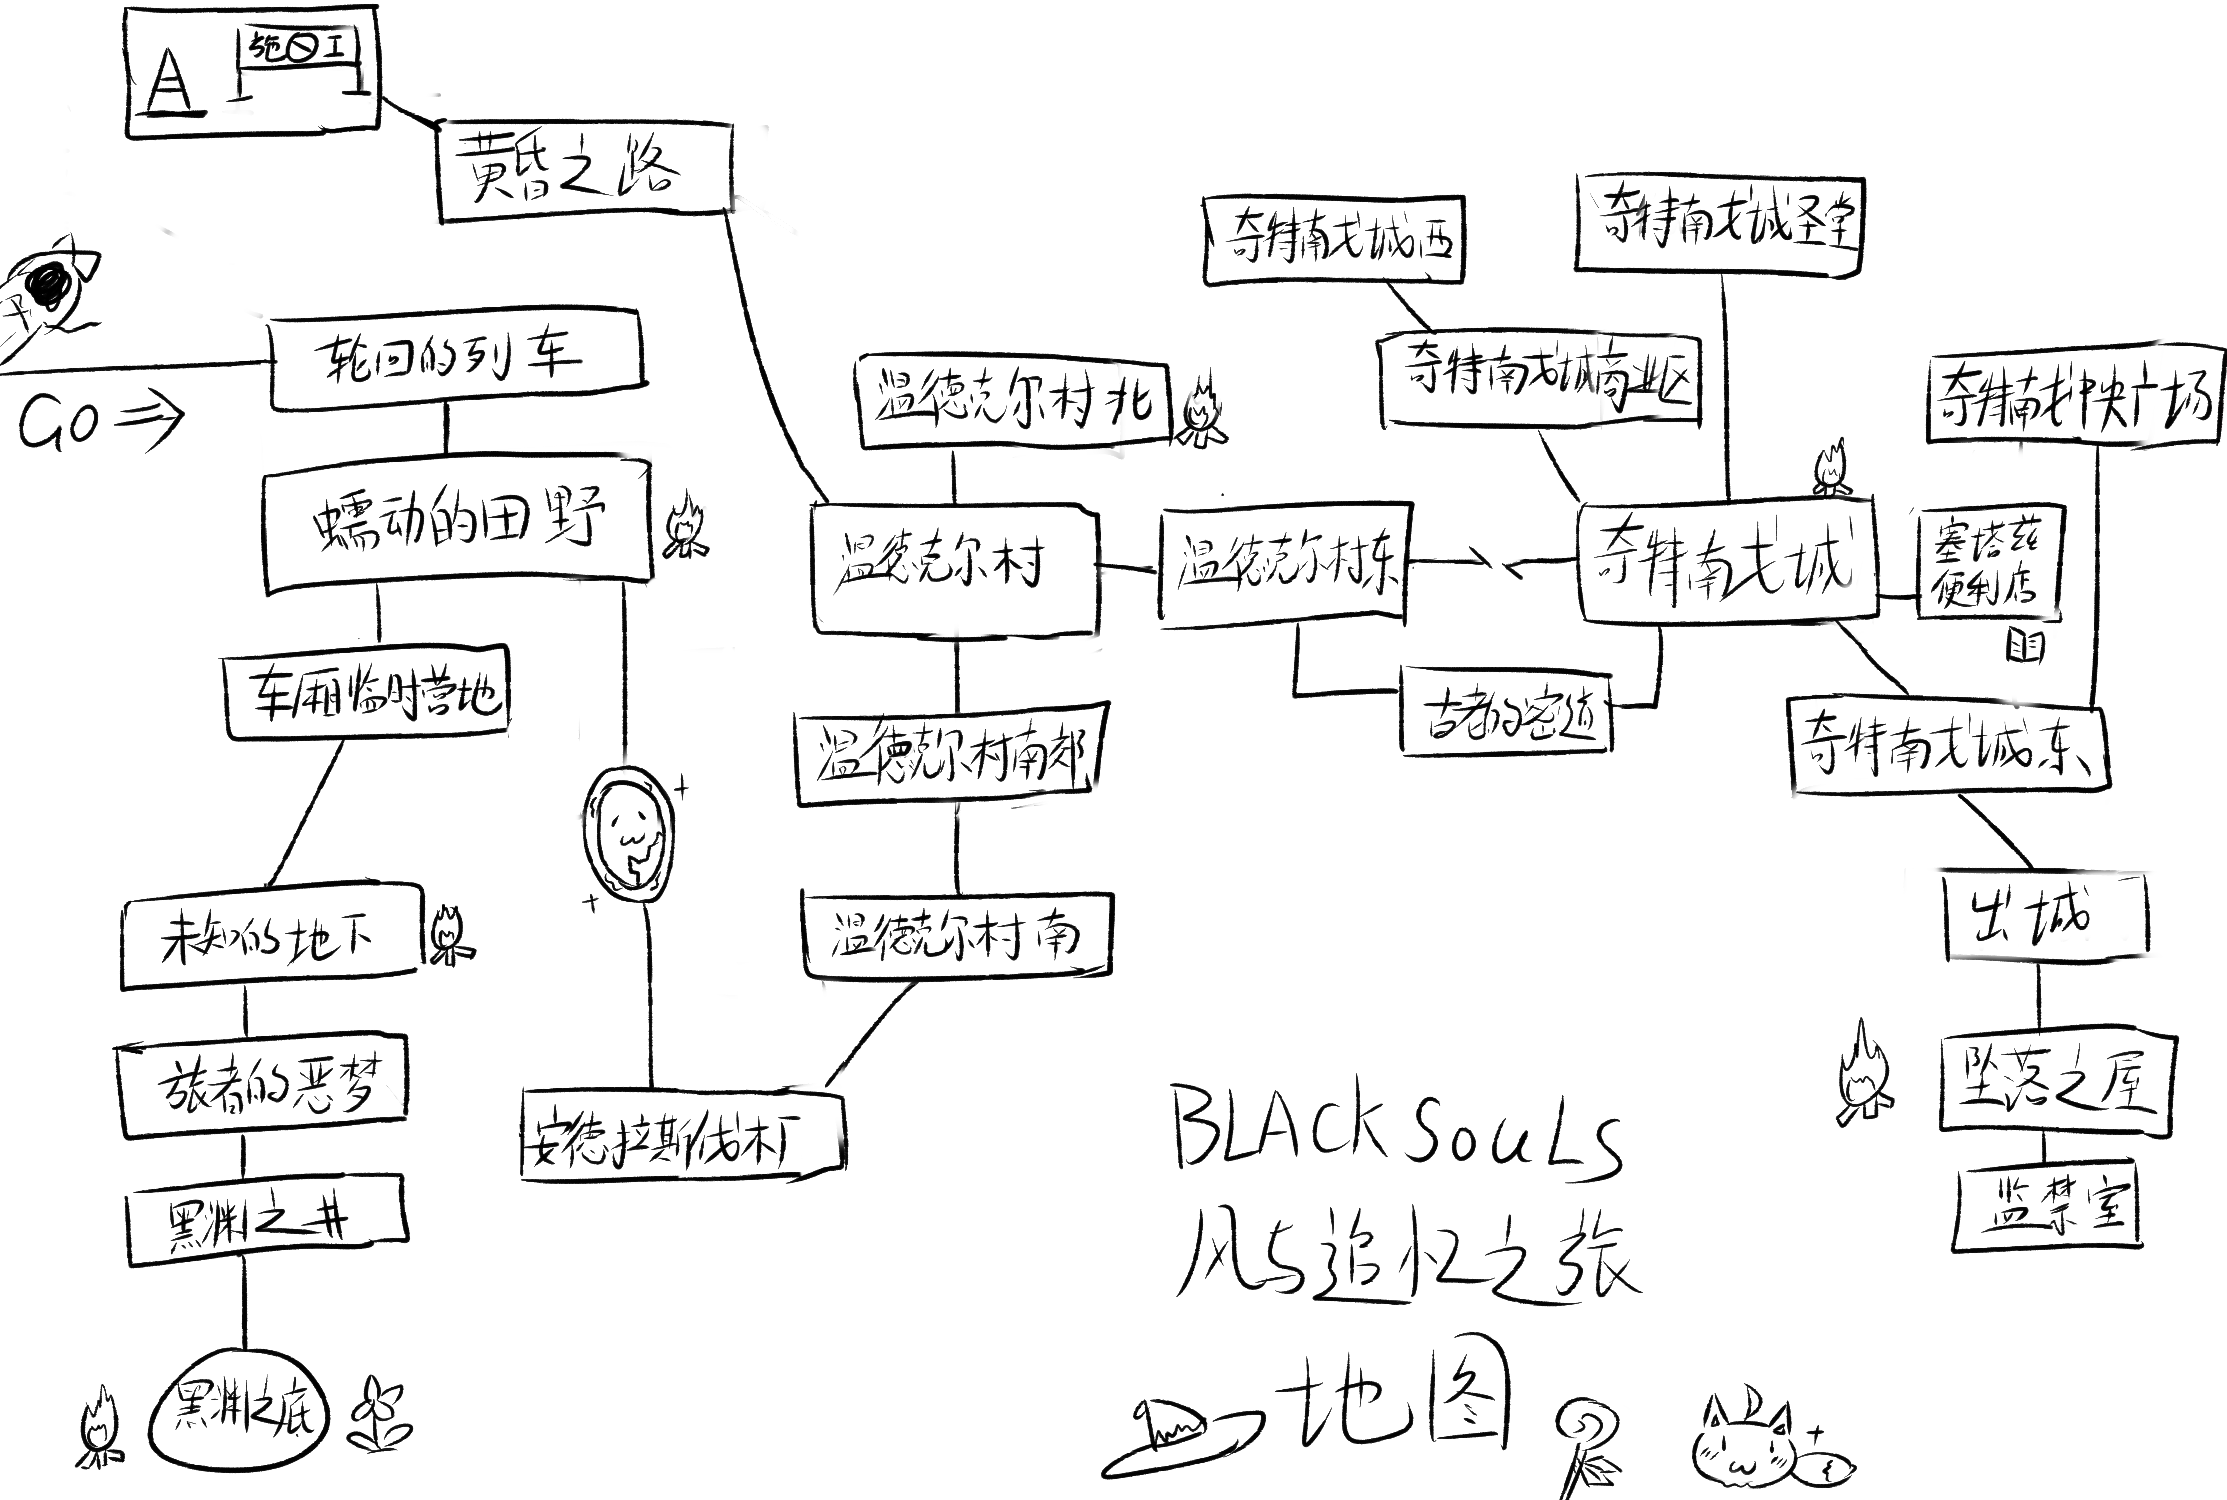
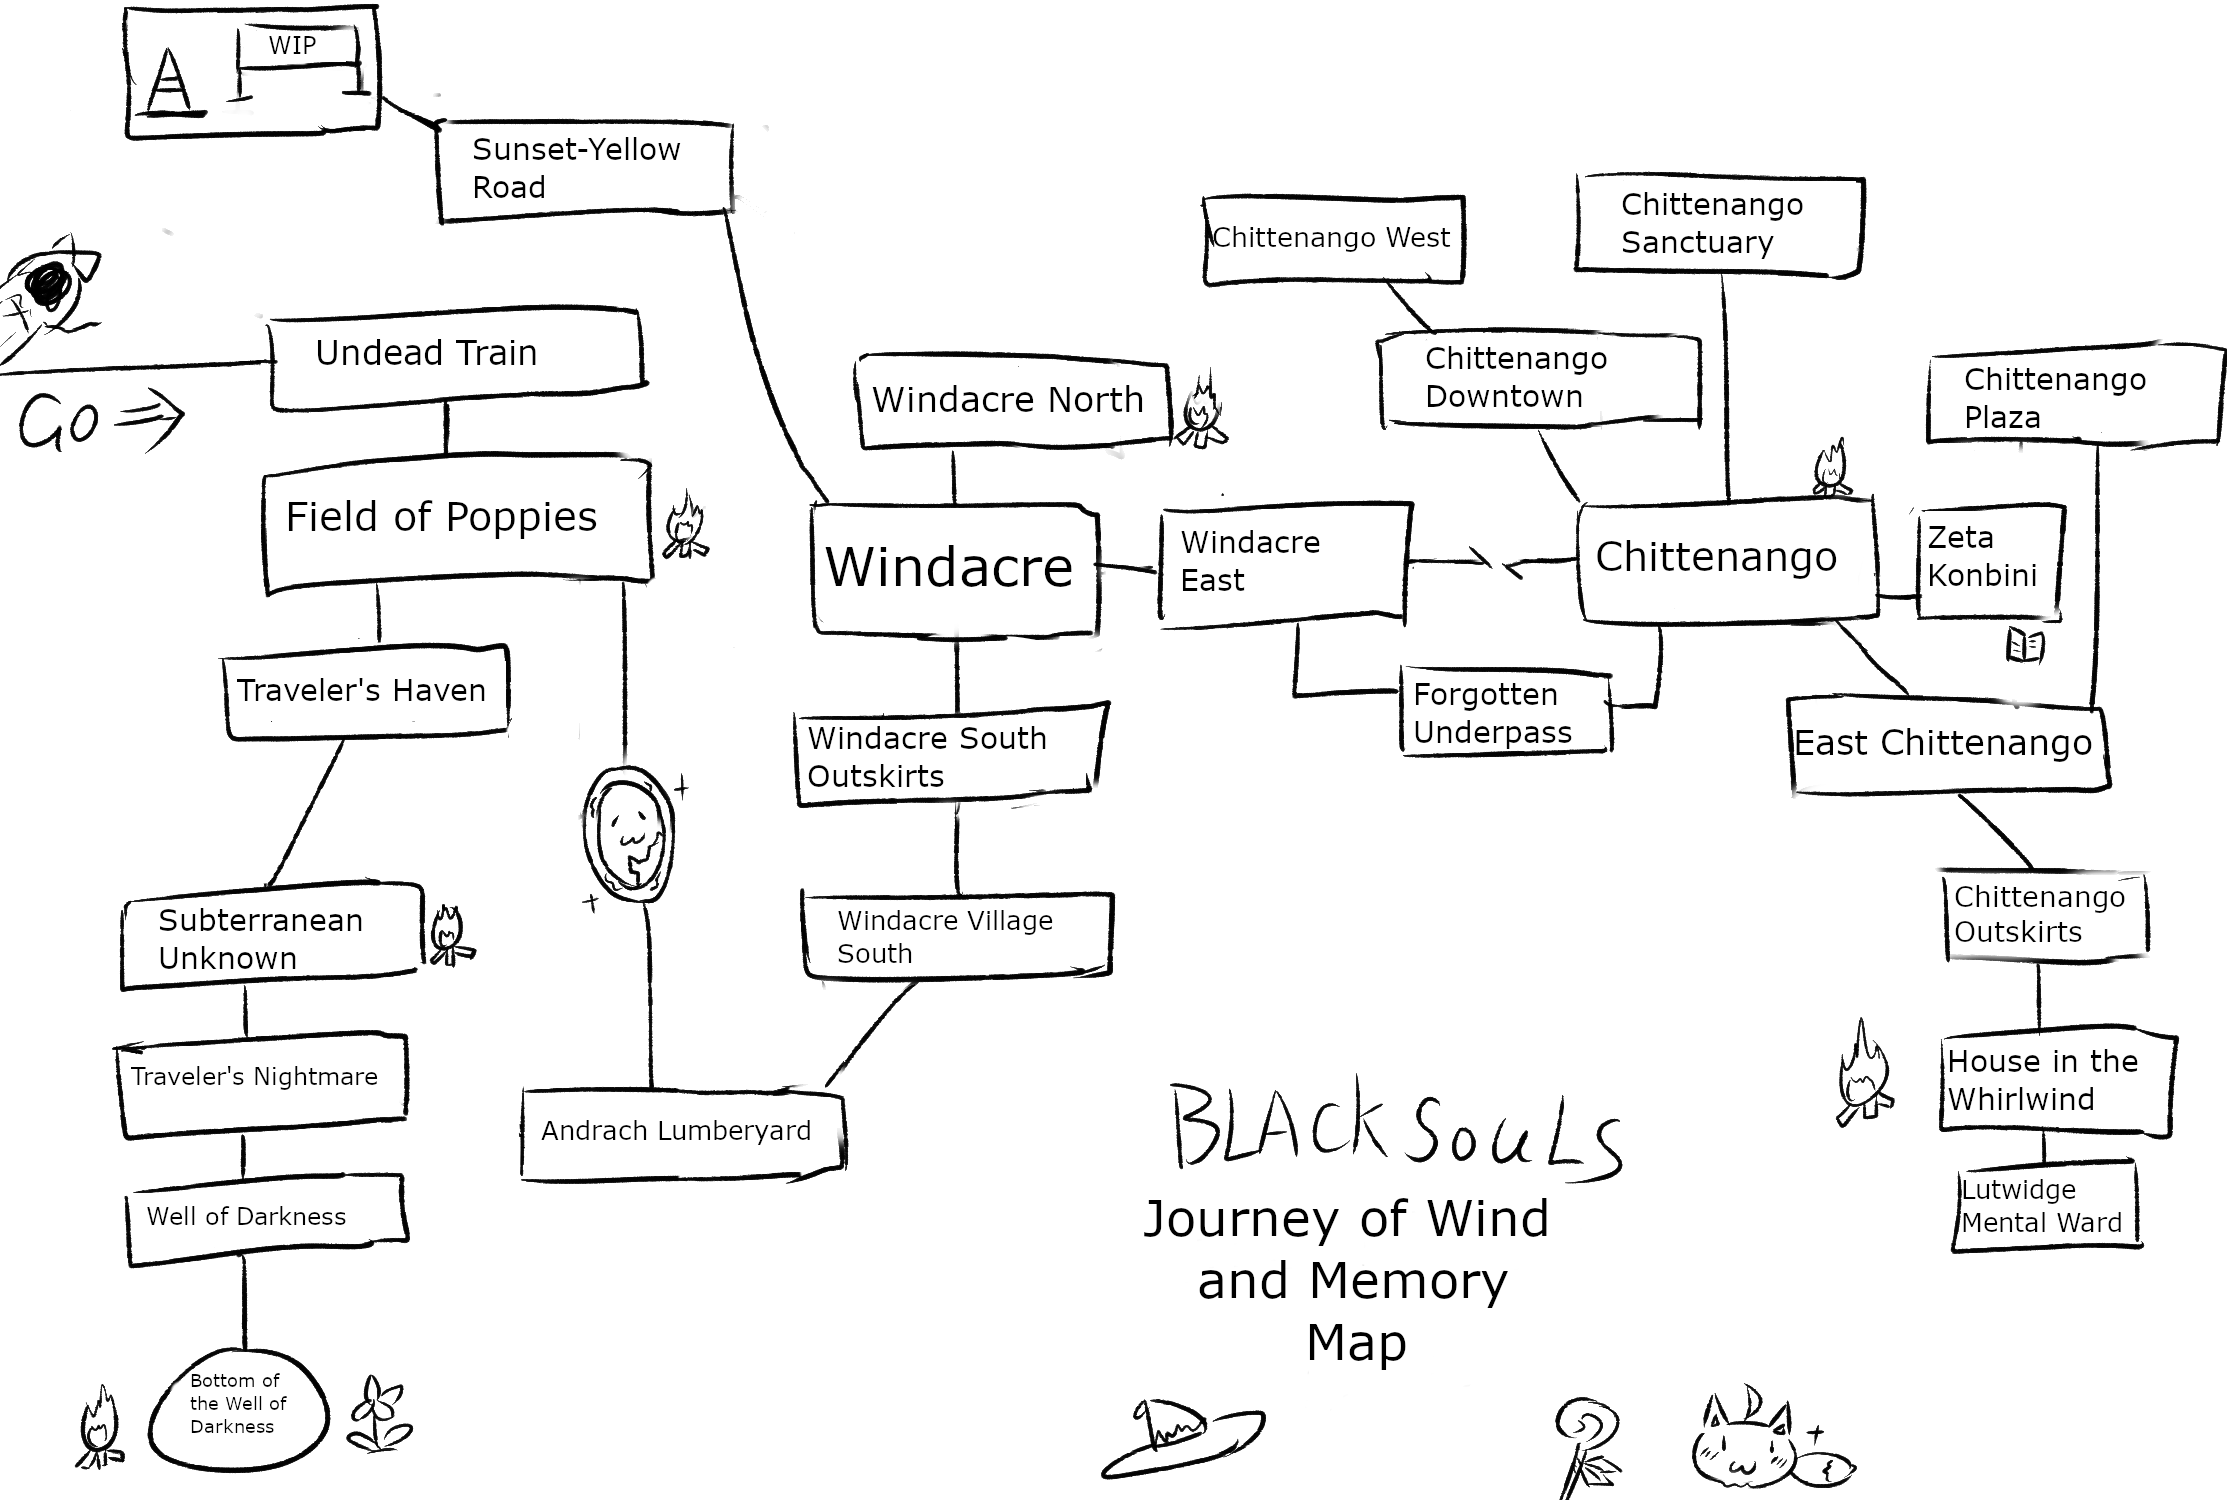
Changed a lot of translated nouns as recommended by Nari

diff --git a/Scripts/_.45.rb b/Scripts/_.45.rb
@@ -57,8 +57,8 @@ module KURE
       MOVE_LIST[33] = [["Windless Valley",1043,0,0],[343,19,34,6]]
       MOVE_LIST[34] = [["White Castletown",1044,0,0],[347,8,77,2]]
       MOVE_LIST[35] = [["Winterbell",1045,0,0],[353,53,54,2]]
-      MOVE_LIST[36] = [["Creeping Field",1110,0,0],[421,206,49,8]]
-      MOVE_LIST[37] = [["Dwinkel Village",1111,0,0],[441,24,16,8]]
+      MOVE_LIST[36] = [["Field of Poppies",1110,0,0],[421,206,49,8]]
+      MOVE_LIST[37] = [["Windacre Village",1111,0,0],[441,24,16,8]]
       MOVE_LIST[38] = [["Chittenango",1112,0,0],[424,10,23,8]]
       MOVE_LIST[39] = [["Fallen House",1442,0,0],[449,29,35,8]]
       MOVE_LIST[40] = [["Deep Dark",1444,0,0],[459,95,140,8]]

diff --git a/Scripts/_.70.rb b/Scripts/_.70.rb
@@ -175,7 +175,7 @@ module A1_System::NameWindow
     "リンダメア"    => "Black Knight Lindamea",
     "ハインリヒ"    => "Frog Heinrich",
     "多萝西 (2)"    => "Dorothy",
-    "「塞塔兹」"    => "Setatz",
+    "「塞塔兹」"    => "Zeta",
     "希莉娅"    => "Celia",
     "？？？"    => "???",
     "「格劳」"    => "Grau",
